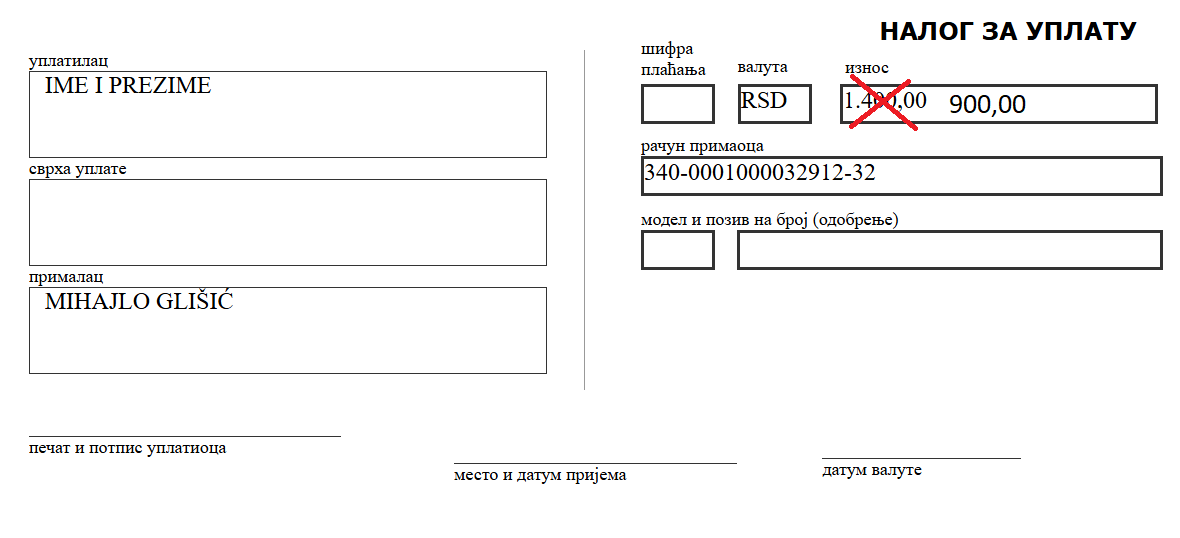
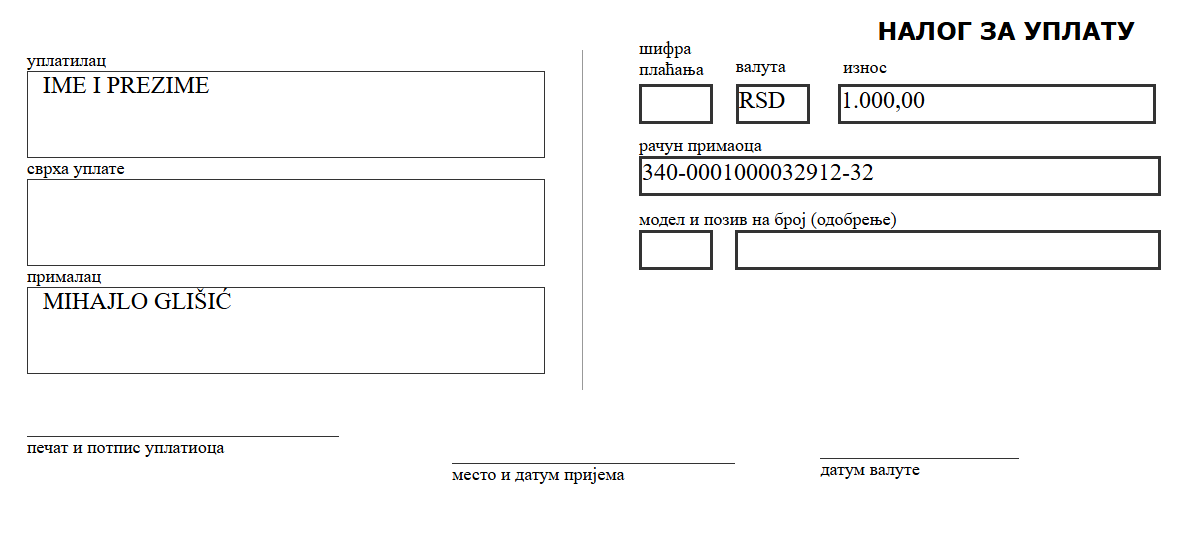
oikt 1. klk

diff --git a/oikt/index.html b/oikt/index.html
@@ -535,7 +535,7 @@ a,
                             <div class="logo-wrap">
                                 <h1 class="h1">Pomoć na fonu</h1><img src="http://pomocnafonu.com/images/logo.png" loading="lazy" width="102" alt="Pomoć na fonu Logo" class="trw-logo is-nav">
                             </div>
-                            <h2 class="hero_heading">OIKT - prvi kolokvijum promo cena</h2>
+                            <h2 class="hero_heading">OIKT - prvi kolokvijum</h2>
                             <style>
                                 .full-image {
                                     width: 100%;
@@ -566,9 +566,29 @@ a,
                             </div>
                             <div class="spacer-medium-copy"></div>
                             <p data-w-id="291f8f9e-3f17-5377-8618-8c2888346b91" style="opacity: 1;" class="p_understand">
-                                Kurs je u fazi izrade i bice gotov do 23.11. <br><b>Ako ga kupite pre tog datuma dobijate popust sa 1400 na 900 dinara. </b><br>Nakon tog datuma cena se vraća na originalnu.<br><br>Kurs se sastoji iz video klipova na kojima se detaljno objašnjavaju svi tipovi zadataka koji mogu doći na kolokvijumu (konverzija brojeva, entropija, big i little endian, metode sortiranja, izračunavanje količine informacije, računske operacije u raznim brojnim sistemima, komplement dvojke itd). <br><br> Nakon uplate pošaljite dokaz o uplati na WhatsApp broj +381 65 975 24 02<br><br>Šifra plaćanja
+                                Kurs se sastoji iz video klipova na kojima se detaljno objašnjavaju svi tipovi zadataka koji mogu doći na kolokvijumu:<br><br> Konverzija brojeva, BCD kod, Ip adrese, Entropija, Big i Little endian, Metode sortiranja, Izračunavanje količine informacije itd. <br><br>Nakon uplate pošaljite dokaz o uplati na WhatsApp broj: 
+                                    <a href="https://wa.me/381659752402?text=Kupio%20sam%20kurs" class="whatsapp-link" target="_blank">
+                                      +381 65 975 24 02
+                                    </a>
+                                  <br><br>Šifra plaćanja
                                 za gotovinske uplate je 189, a za online je 289.
                             </p>
+                            <style>
+                                .whatsapp-link {
+                                    font-weight: bold;           /* bold tekst */
+                                    color: #25D366;              /* WhatsApp zelena boja */
+                                    text-decoration: none;       /* uklanja podvlačenje */
+                                    padding: 5px 10px;           /* malo prostora oko linka */
+                                    border-radius: 8px;          /* zaobljeni uglovi */
+                                    transition: all 0.3s ease;   /* glatka promena boje pri hover */
+                                }
+                                
+                                .whatsapp-link:hover {
+                                    background-color: #25D366;  /* pozadina postaje zelena na hover */
+                                    color: #ffffff;             /* tekst postaje beo */
+                                    text-decoration: none;
+                                }
+                                </style>
                         </div>
                         <div id="w-node-_043d95e2-6767-2600-a2ff-41642b4534ac-97263376" class="image_wrap hide-tablet"><img src="../images/uplatnica2.png" loading="lazy" id="w-node-_149667a0-d57f-5e62-c1cd-22bfea20c019-97263376" sizes="100vw" alt="" srcset="../images/uplatnica2.png 500w, ../images/uplatnica2.png 776w" class="understand_image" style="opacity: 1;">
                         </div>
